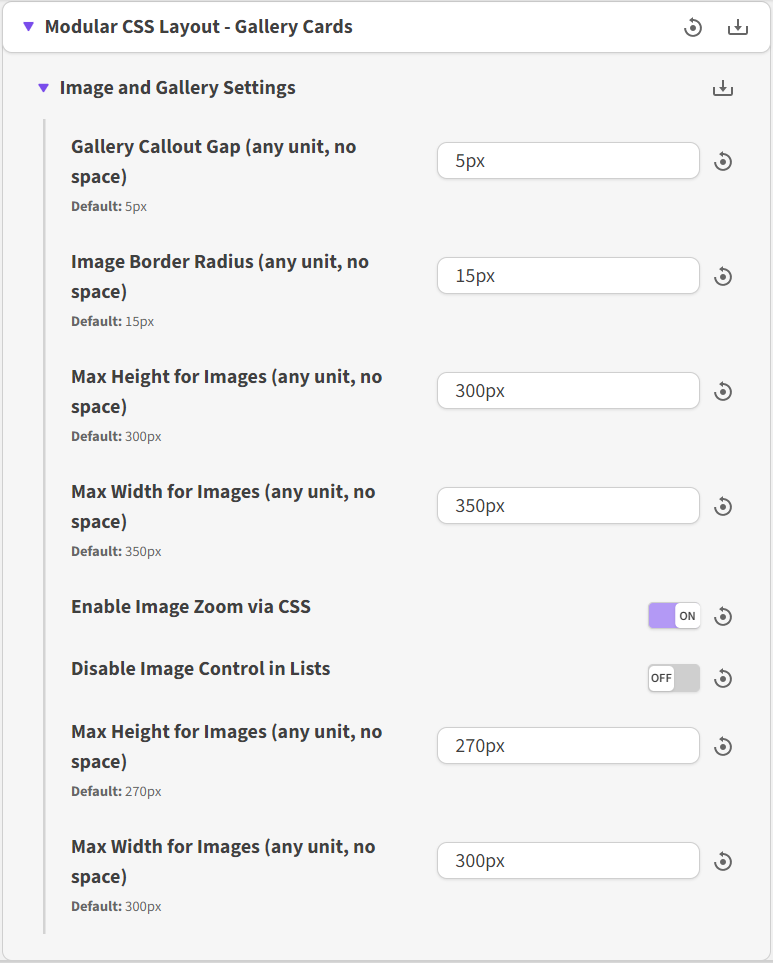
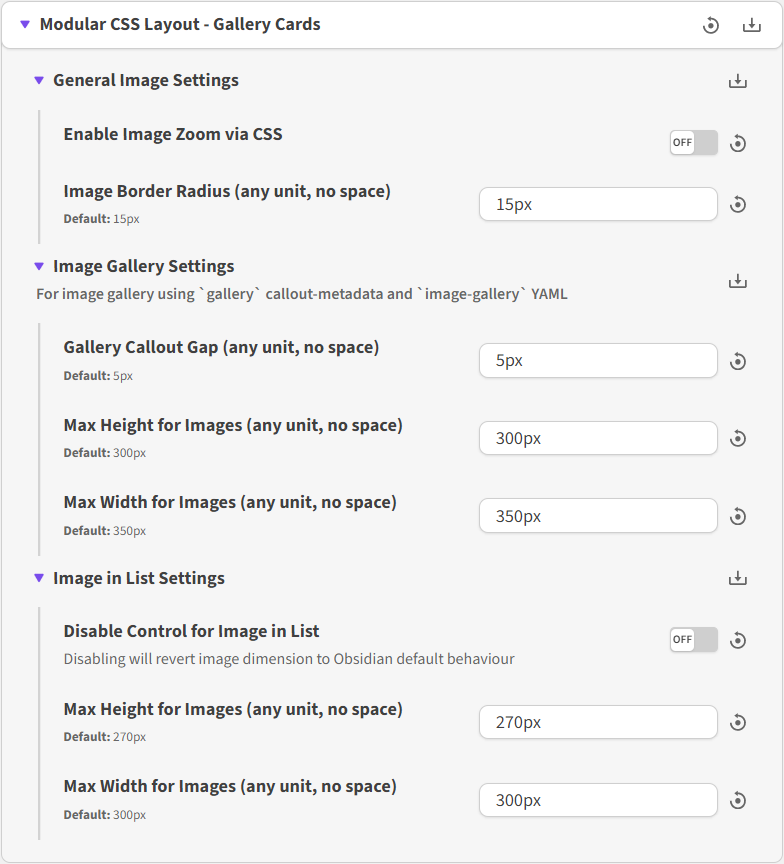
update gallery cards css

diff --git a/MCL Gallery Cards.css b/MCL Gallery Cards.css
@@ -1,28 +1,204 @@
 /* === README ===
-	Updated: 2022-04-17 (version: 0.0.5)
-	- version 0.1.0 for list-based, 0.0.5 for callout based
-	Author: Faiz Khuzaimah (@faizkhuzaimah)
-	
-	What is this snippet for?
-	- to allow Obsidian users to change the layout with preset css by just specifying
-	  the cssClass in the frontmatter (YAML) or naming the Callout block
-	- available cssClass
-		- cssClass: image-gallery
-	- available Callout format
-		- [!image gallery container]
+	Author: Faiz Khuzaimah / twitter: @faizkhuzaimah / github: https://github.com/efemkay
+	Updated: 2022-06-12 (version: 0.3.0)
+	- completed callout and paragraph-based image gallery
+	- added dimension control for images in lists
+
+	This snippet is part of MCL collection of snippets for customising layout, and it provides the following
+	- "gallery" callout-metadata i.e. [!<any-callout>|gallery] for flex/grid layout
+		- use together with MCL Multi Column [!blank-container] for invisible container
+	- YAML `cssClass: image-gallery` to achieve similar to callout but using only Contextual Typography plugin & <p>
+	- Image Zoom via css
+	- Dimension control for images in lists <ul>
+
+	Credits to @kepano Minimal Theme and @SlRvb ITS Theme for inspiration
+*/
+/* === Master Setting === */
+
+	/* set the defaults */
+	body{
+		--img-border-radius: 15px;
+		--img-max-height: 300px;
+		--img-max-width: 350px;
+		--img-max-height-list: 270px;
+		--img-max-width-list: 300px;
+		--callout-gallery-gap: 5px;
+	}
+
+	img {border-radius: var(--img-border-radius);}
+
+/* === Image Gallery using <p> and Callout === */
+
+	/* Editing and Reading View - Gallery using <p> and Callout
+		using <p> (in Reading View) to contain and format as gallery view
+		using metadata="gallery" to contain and format as gallery view */
+	.image-gallery div[data-embed-type="image"] > p,
+	div[data-callout-metadata*="gallery"].callout > .callout-content > p
+		{ display: flex; gap: var(--callout-gallery-gap); margin-top: calc( var(--callout-gallery-gap) + 1px ); margin-bottom: 0;}
+	.image-gallery div[data-embed-type="image"] > p img,
+	div[data-callout-metadata*="gallery"].callout > .callout-content > p img
+		{ max-height: var(--img-max-height); border: 1px solid var(--background-modifier-border); object-fit: cover; display: block;}
+	/* display: block for img is important to control the hidden margin-bottom
+		but for Minimal, it uses display: flex for top level divs which pose another "margin" issues
+		no plan to solve yet as this is not critical */
+
+	/* Reading View - Special Adjustment for Shimmering Focus, overriding max-width */
+	body:not(.is-mobile) .app-container.app-container .image-gallery p img[src],
+	body:not(.is-mobile) .app-container.app-container div[data-callout-metadata*="gallery"].callout img[src]
+		{ max-width: 100%; width: unset; margin-block: unset;}
+
+	/* Editing View - as alternate to <p> in Reading View
+		since there's no natural container in Editing View using <p> */
+	.image-gallery div:not(.cm-callout):not(.HyperMD-list-line).image-embed img
+		{ max-height: var(--img-max-height); display: unset; object-fit: cover;}
+		/* previously i have max-width: 50% */
+
+	/* Editing Live Preview - Special Adjustment - for minimal left margin */
+	.markdown-source-view.mod-cm6.is-readable-line-width .internal-embed
+		{ margin-left: 0 !important; width: unset;}
+
+
+/* === Images in Lists === */
+	body:not(.list-image-control-off) :is(.HyperMD-list-line,ul) .image-embed.image-embed img:not([width])
+		{ max-height: var(--img-max-height-list); max-width: var(--img-max-width-list); margin-inline: 0; display: unset; object-fit: cover;}
+
+
+	/*
+	div:not(.cm-callout).image-embed img { max-height: 200px; max-width: 300px; height: 200px; object-fit: cover;}
+	*/
+
+/* === Image Zoom === */
+/* must check "Enable Image Zoom via CSS" via Style Settings */
+
+	.image-zoom .view-content :is(.cm-editor, .markdown-preview-view) img
+		{ max-width: 100%; cursor: zoom-in; }
+
+	body.image-zoom:not(.is-mobile) .view-content :is(.cm-editor,.markdown-preview-view) img:active,
+	body.image-zoom:not(.is-mobile) .view-content .image-embed:active,
+	.image-zoom :is(.HyperMD-list-line,ul) .image-embed.image-embed img:active {
+		cursor: zoom-out;
+		display: block;
+
+		max-height: calc(100% + 1px); max-width: calc(100% - 20px); height: calc(100% + 1px); width: 100%;
+
+		object-fit: contain;
+		margin: -0.5px auto 0; padding: 0;
+		text-align: center;
+		z-index: 100;
+		position: fixed;
+		left: 0; right: 0; bottom: 0;
+		background: rgba(0,0,0,0.5);
+	}
+
+
+/* === ALPHA VERSION table-card === */
+	/* setting the borders */
+	table > tbody > tr,
+	.markdown-source-view.mod-cm6 .dataview.table-view-table .table-view-tbody tr {border: 1px solid black; border-radius: 0.5em;}
+	.markdown-source-view.mod-cm6 .dataview.table-view-table .table-view-tbody td {border-right: unset;}
+
+	:is(.theme-light, .theme-dark) table,
+	:is(*,.is-live-preview.is-live-preview) table :is(td,tr) {background-color: unset;}
+	.dataview.table-view-table.dataview.table-view-table {border: unset;} /* for primary */
+	table tbody {	display: grid; grid-template-columns: repeat(auto-fit, minmax(200px,1fr)); gap: 0.5em; clear: both;}
+	table > tbody > tr {display: flex; flex-direction: column; padding-inline: 0.5em;}
+
+	:is(*,.is-live-preview) table.table-view-table > tbody > tr > td:not(:first-child) {border-top: 1px solid gray; }
+	table.table-view-table > tbody > tr {margin: unset;}
+
+	/* thead adjustment */
+	/* table > thead {display: flex; } */
+	table > thead {float: right;}
+	table.table-view-table > thead > tr {margin: unset;}
+	table.table-view-table > thead > tr > th {border: unset;}
+	.dataview.table-view-table.dataview.table-view-table :is(thead, th) {padding-block: unset;}
+
+
+/* === ALPHA VERSION testing Timeline in lists === */
+/*
+    .tag-mcltimeline > ul > li > *:not(ul) { text-align: center; align-self: baseline; }
+    .tag-mcltimeline > ul > li {
+        display: grid;
+        grid-template-columns: 0 3fr 7fr;
+        grid-template-rows: auto;
+        grid-template-areas:
+            "indicator timeline details"
+            "indicator . details";
+        grid-column-gap: 1em;
+
+    }
+    .tag-mcltimeline > ul > li > ul { grid-area: details; text-align: left; }
+    .tag-mcltimeline > ul > li > .collapse-indicator { grid-area: indicator; }
+    .tag-mcltimeline > ul ul { margin-left: 0.5em; }
 */
 
-/* === Image Gallery direct in note === */
-	.image-gallery div[data-embed-type="image"] > p { display: flex; gap: 5px; margin-block: 5px; }
-	.image-gallery div[data-embed-type="image"] img { max-height: 350px; border-radius: 15px; border: 1px solid var(--background-modifier-border); }
 
-/* === Image Gallery with Callout === */
-	
-	/* - Blank Container "DIV"'s - can be used with Main Multi-Column layout above */
-	div[data-callout*="container"].callout,
-	div[data-callout*="container"].callout > .callout-content { border: 0 !important; padding-top: 0; background: unset !important; }
-	div[data-callout*="container"].callout > .callout-title { display: none; }
-	
-	/* - to use add callout with [!image gallery container] */
-	div[data-callout*="image"].callout > .callout-content > p { display: flex; margin-block:5px; gap: 5px; }
-	div[data-callout*="image"].callout > .callout-content > p img { border-radius: 15px; max-height: 350px; border: 1px solid var(--background-modifier-border) }
+
+
+/* @settings
+
+name: Modular CSS Layout - Gallery Cards
+id: modular-css-layout-gc
+settings:
+
+	-
+		id: gc-general-title
+		title: General Image Settings
+		type: heading
+		level: 2
+		collapsed: true
+	-
+        id: image-zoom
+        title: Enable Image Zoom via CSS
+        type: class-toggle
+	-
+		id: img-border-radius
+		title: Image Border Radius (any unit, no space)
+		type: variable-text
+		default: 15px
+
+    -
+        id: gc-callout-title
+        title: Image Gallery Settings
+		description: For image gallery using `gallery` callout-metadata and `image-gallery` YAML
+        type: heading
+        level: 2
+		collapsed: true
+	-
+		id: callout-gallery-gap
+		title: Gallery Callout Gap (any unit, no space)
+		type: variable-text
+		default: 5px
+    -
+        id: img-max-height
+        title: Max Height for Images (any unit, no space)
+        type: variable-text
+        default: 300px
+	-
+		id: img-max-width
+		title: Max Width for Images (any unit, no space)
+		type: variable-text
+		default: 350px
+
+	-
+		id: gc-list-title
+	    title: Image in List Settings
+	    type: heading
+	    level: 2
+		collapsed: true
+	-
+        id: list-image-control-off
+        title: Disable Control for Image in List
+		description: Disabling will revert image dimension to Obsidian default behaviour
+        type: class-toggle
+	-
+	    id: img-max-height-list
+		title: Max Height for Images (any unit, no space)
+	    type: variable-text
+	    default: 270px
+	-
+		id: img-max-width-list
+		title: Max Width for Images (any unit, no space)
+		type: variable-text
+		default: 300px
+*/

diff --git a/docs/installation.md b/docs/installation.md
@@ -4,14 +4,24 @@ nav_order: 2
 
 # Installation
 
-## There are two ways you can install the CSS snippets
-To use, download or copy the css into your [vault]/.obsidian/snippets folder and enable them in Settings > Appearance > CSS snippets. Since I'm planning to update this snippets from time to time, you can use Mara Li's Snippet Downloader plugin to use Obsidian interface to download and update the snippets (when update is available).
+This is actually just a CSS code snippets collection. So it isn't an installation per se, but rather **download and enable** in Obsidian.
 
-### The normal user way
-`via Mara Li's Snippet Downloader plugin`
+### Using Snippet Downloader (recommended)
+Snippet Downloader is an Obsidian community plugin by Mara Li. Since I'm planning to update this snippets from time to time, this is the recommended approach as the plugin also provides a way to update/redownload from included repository
+
 > Please ensure your vault's /.obsidian/snippets folder is already created before doing the following steps. You can do that by going to `Settings > Appearance` and click "Open snippets folder" under CSS snippets section
 
 - In Obsidian, go to `Settings > Community Plugins > Browse` and search for Snippet Downloader by Mara-Li
 - Install and enable the plugin
 - Open Command Pallete (`Ctrl/Cmd + P`), select Snippet Downloader: Add new snippet
 - In the Repo Link area paste the following link `https://github.com/efemkay/obsidian-modular-css-layout`
+
+### Manually Saving from GH
+
+- Open your browser and go to MCL's GH [landing page](https://github.com/efemkay/obsidian-modular-css-layout)
+- Click on the snippet you want to save, (on the blob page) click on "Raw" at the top left, and (on the raw page) copy the entire text
+> *GH raw page will open up the css file within your browser in plain-text format for easy copy pasting*
+- Open any text editor in your desktop and paste the snippet
+- Save the file as a `.css` file into your `[vault]/.obsidian/snippets` folder. Filename can be anything.
+- Open Obisidian and go to `Settings > Appearance > CSS snippets` to enable the snippet.
+> *Click on "Reload snippets" button if the snippet does not appear in the list.*

diff --git a/docs/multi-column/index.md b/docs/multi-column/index.md
@@ -41,8 +41,11 @@ Once you enabled the css snippet, you use this feature by creating a custom call
 
 > note that when you insert callout within callout, the line separating the callouts should only use single angle bracket (">")
 
-<img src="https://user-images.githubusercontent.com/42369515/163700561-c8d62aa3-0ac8-488c-a80e-8bfb3b539ca8.png" height="350px" >
+#### Example Screenshot
+<img src="https://user-images.githubusercontent.com/42369515/163700561-c8d62aa3-0ac8-488c-a80e-8bfb3b539ca8.png" height="350px" />
 
+#### Example GIF
+<img src="https://raw.githubusercontent.com/efemkay/obsidian-modular-css-layout/main/docs/assets/how%20to%20install%20and%20enable%20MCL.gif" height="350px" />
 
 ## Using (Unordered) List
 - css classes available

diff --git a/docs/wide-views/wvsettings.md b/docs/wide-views/wvsettings.md
@@ -4,7 +4,7 @@ parent: Wide Views
 nav_order: 3
 ---
 
-# Wide Views Style Settings
+# Style Settings
 
 ## Adjustable RLL Settings
 
